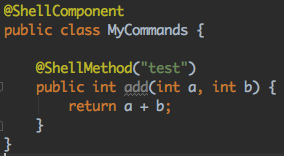
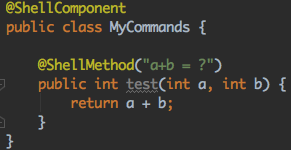
image change

diff --git a/src/main/java/com/example/shell/MyCommands.java b/src/main/java/com/example/shell/MyCommands.java
@@ -1,0 +1,17 @@
+package com.example.shell;
+
+import org.springframework.shell.standard.ShellComponent;
+import org.springframework.shell.standard.ShellMethod;
+
+/**
+ * Created by hwkim
+ * on 2018. 7. 3.
+ */
+@ShellComponent
+public class MyCommands {
+
+    @ShellMethod("a+b = ?")
+    public int test(int a, int b) {
+        return a + b;
+    }
+}
